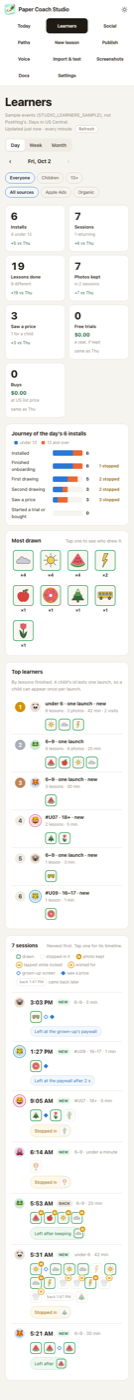
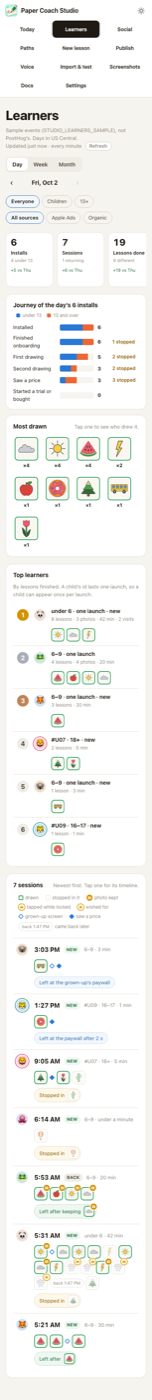
Studio Learners: the numbers in one row at every width
The seven tiles narrow with the page instead of wrapping to rows of four or
two; below a narrow window (about 800 px) the row scrolls sideways, as it
does on a phone, where its tiles keep room for their words.

diff --git a/web/src/studio/learners.css b/web/src/studio/learners.css
@@ -229,10 +229,16 @@
 /* ---------- The numbers ---------- */
 
 .st-learners__numbers {
+  /* Always one row: the tiles narrow with the page, and below seven of their least
+     width the row scrolls sideways rather than wrapping. */
   display: grid;
-  grid-template-columns: repeat(7, minmax(0, 1fr));
+  grid-auto-flow: column;
+  grid-auto-columns: minmax(92px, 1fr);
   gap: 10px;
   margin-bottom: 18px;
+  overflow-x: auto;
+  scroll-snap-type: x proximity;
+  container-type: inline-size;
 }
 
 .st-learners__stat {
@@ -296,6 +302,30 @@
 
 .st-learners__stat-delta--down {
   color: var(--amber);
+}
+
+@container (max-width: 1000px) {
+  .st-learners__stat {
+    padding: 11px 12px;
+    scroll-snap-align: start;
+  }
+
+  .st-learners__stat-value {
+    font-size: 24px;
+  }
+
+  .st-learners__stat-label {
+    font-size: 12px;
+  }
+
+  .st-learners__stat-money {
+    font-size: 14px;
+  }
+
+  .st-learners__stat-sub,
+  .st-learners__stat-delta {
+    font-size: 11px;
+  }
 }
 
 /* ---------- Journey and most drawn, side by side ---------- */
@@ -1311,10 +1341,6 @@ a.st-learners__day-face:hover {
 /* ---------- Narrower screens ---------- */
 
 @media (max-width: 1000px) {
-  .st-learners__numbers {
-    grid-template-columns: repeat(4, minmax(0, 1fr));
-  }
-
   .st-learners__pair {
     grid-template-columns: minmax(0, 1fr);
   }
@@ -1325,8 +1351,9 @@ a.st-learners__day-face:hover {
     padding: 20px 14px 56px;
   }
 
+  /* The row scrolls here anyway, so the tiles keep room for their words. */
   .st-learners__numbers {
-    grid-template-columns: repeat(2, minmax(0, 1fr));
+    grid-auto-columns: minmax(122px, 1fr);
   }
 
   .st-learners__stage-row {
